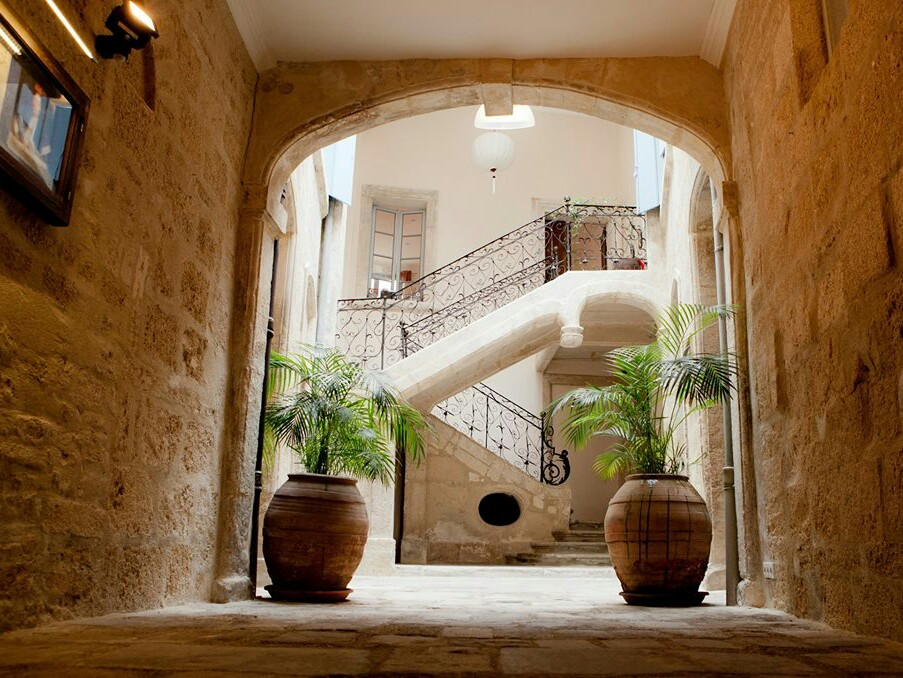
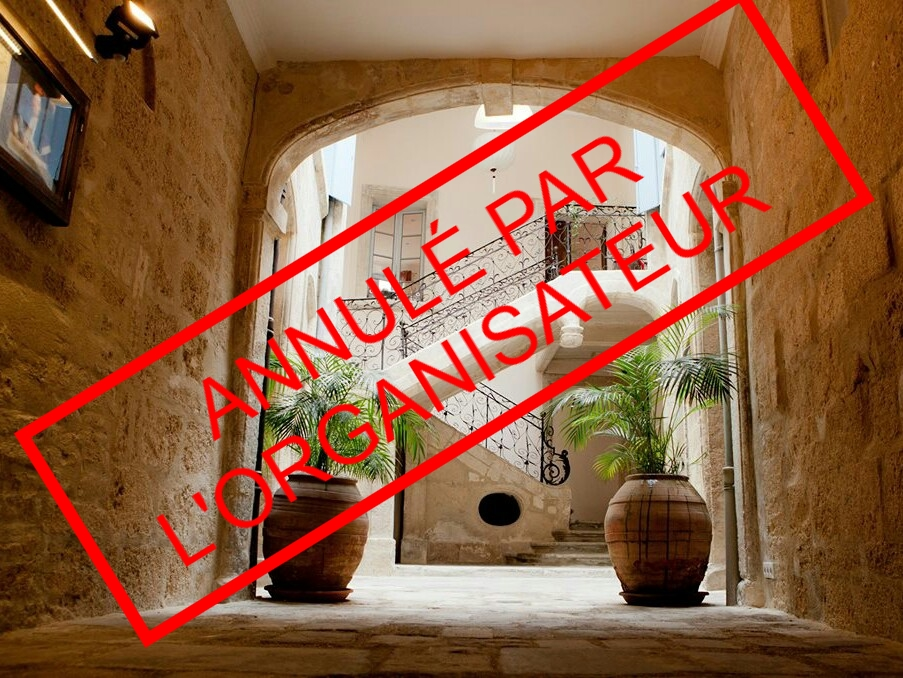
annulé

Changed region(s): [[0.0, 0.0, 0.9922, 0.9602], [0.5271, 0.1858, 0.7132, 0.3717], [0.155, 0.7434, 0.2481, 0.8363]]

diff --git a/index.html b/index.html
@@ -124,7 +124,7 @@
               <p>
                 <strong>Montpellier (hôtel Magnol)</strong><br> <b class="title">Duo l'éphémère</b>
               </p>
-              <p>Sam. 2 février 19h</p></a> <a target="_blank" href="https://www.hotelmagnol.com/single-post/2019/01/16/020219-Charlotte-Saluste-Bridoux-et-Nicolas-Dross-Les-Concerts-de-Magnol" class="btn">Info réservation</a>
+              <p>Sam. 2 février 19h</p></a> <span class="label label-danger">Annulé</span>
           </div>
         </div>
       </div>
@@ -196,7 +196,7 @@
         <li>Szymanowski – Mythes</li>
       </ul>
       <ul class="list-group">
-        <li class="list-group-item">02/02/2019 19h :  Hôtel Magnol, Montpellier <span class="label label-success">À venir</span> <span class="label "><a target="_blank" href="https://www.hotelmagnol.com/single-post/2019/01/16/020219-Charlotte-Saluste-Bridoux-et-Nicolas-Dross-Les-Concerts-de-Magnol">infos réservation</a></span></li>
+        <li class="list-group-item">02/02/2019 19h :  Hôtel Magnol, Montpellier <span class="label label-danger">Annulé</span></li>
       </ul>
       
       <ul>
